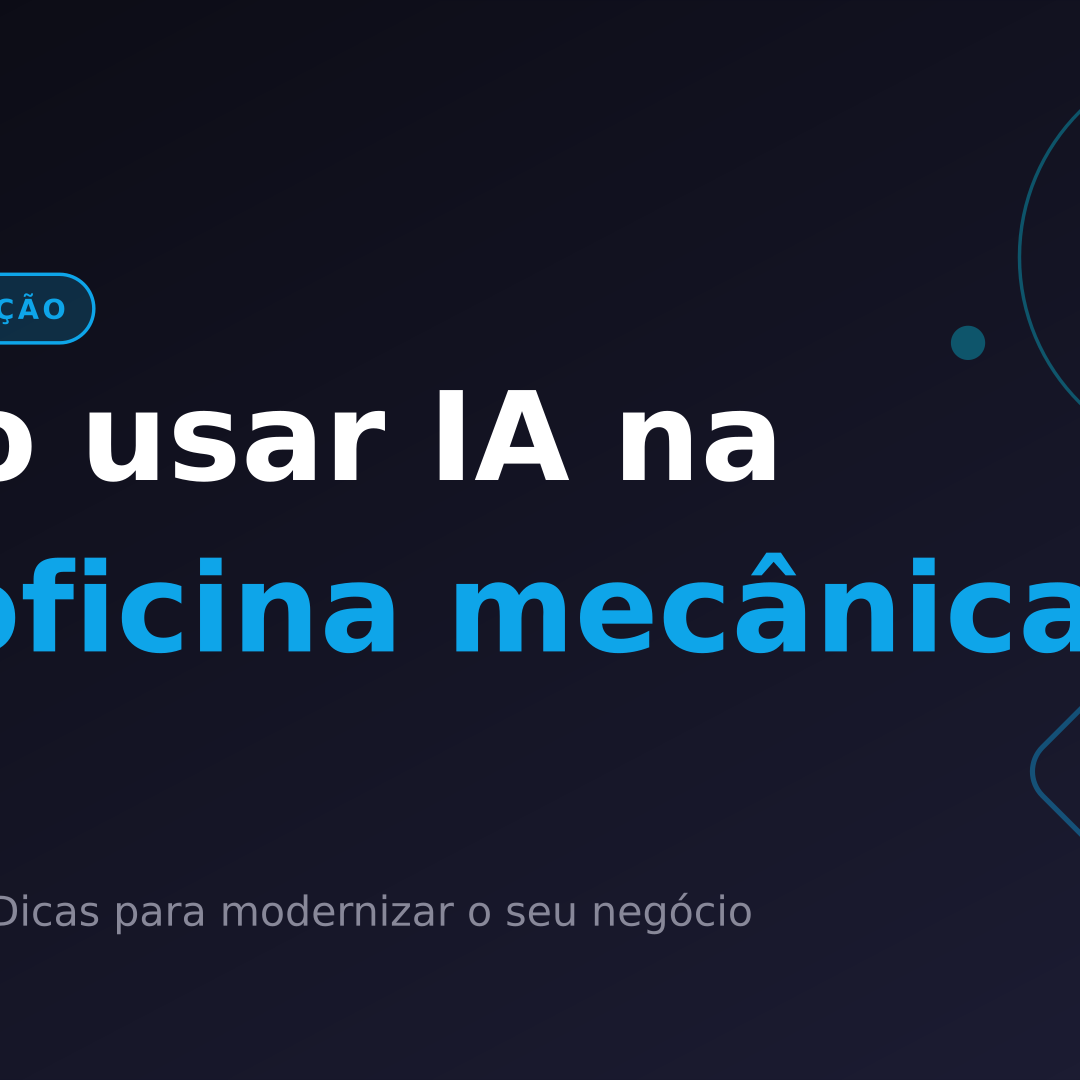
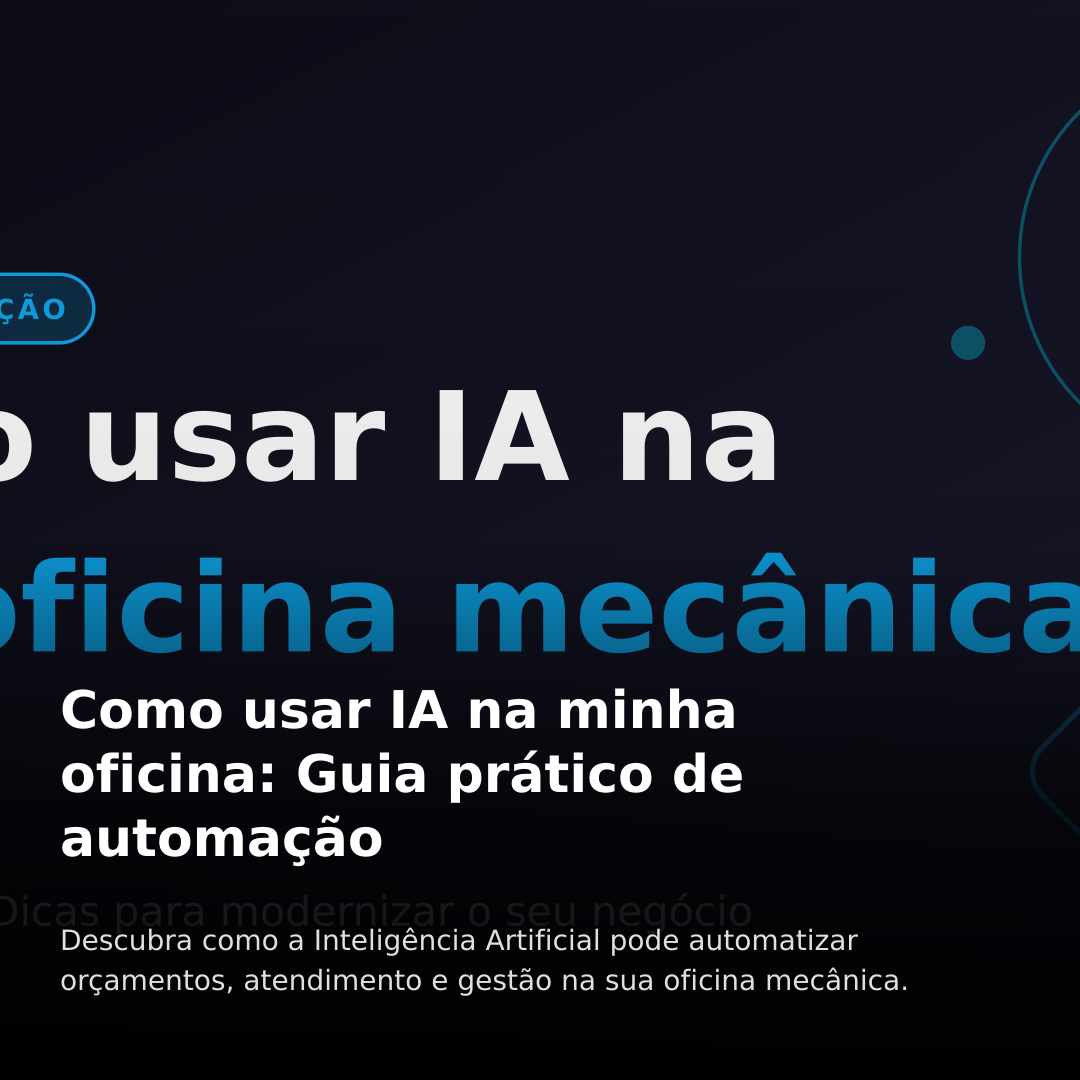
publish: atualização de conteúdo e build

diff --git a/scripts/generate-og-images.ts b/scripts/generate-og-images.ts
@@ -24,10 +24,22 @@ function wrapText(text: string, maxChars: number) {
 
 function findPostFrontmatter(svgFilename: string) {
   const slug = svgFilename.replace(/\.svg$/, '')
-  const rootPostPath = path.join(process.cwd(), '..', 'content', 'posts', `${slug}.md`)
-  const corePostPath = path.join(process.cwd(), 'content', 'posts', `${slug}.md`)
-  
-  const postPath = fs.existsSync(rootPostPath) ? rootPostPath : (fs.existsSync(corePostPath) ? corePostPath : '')
+  const searchPaths = [
+    path.join(process.cwd(), '..', 'content', 'posts', `${slug}.md`),
+    path.join(process.cwd(), 'content', 'posts', `${slug}.md`),
+    path.join(process.cwd(), '..', 'content', 'posts', 'pt', `${slug}.md`),
+    path.join(process.cwd(), 'content', 'posts', 'pt', `${slug}.md`),
+    path.join(process.cwd(), '..', 'content', 'posts', 'en', `${slug}.md`),
+    path.join(process.cwd(), 'content', 'posts', 'en', `${slug}.md`),
+  ]
+
+  let postPath = ''
+  for (const p of searchPaths) {
+    if (fs.existsSync(p)) {
+      postPath = p
+      break
+    }
+  }
   
   if (!postPath) return null
 

diff --git a/scripts/trigger-n8n.ts b/scripts/trigger-n8n.ts
@@ -116,12 +116,17 @@ async function run() {
   }
 
   if (slugOrAll === 'all') {
-    const files = fs.readdirSync(postsDir).filter(f => f.endsWith('.md'))
-    console.log(`🔍 Iniciando varredura em ${files.length} posts para a rede: ${network}...`)
+    const ptDir = path.join(postsDir, 'pt')
+    if (!fs.existsSync(ptDir)) {
+      console.log('Pasta pt/ não encontrada, nada a publicar.')
+      return
+    }
+    const files = fs.readdirSync(ptDir).filter(f => f.endsWith('.md'))
+    console.log(`🔍 Iniciando varredura em ${files.length} posts na pasta 'pt' para a rede: ${network}...`)
     
     for (const file of files) {
-      const slug = file.replace(/\.md$/, '')
-      const postPath = path.join(postsDir, file)
+      const slug = path.join('pt', file.replace(/\.md$/, ''))
+      const postPath = path.join(ptDir, file)
       await processPost(slug, postPath)
     }
     console.log(`\n🎉 Varredura de publicação finalizada!`)